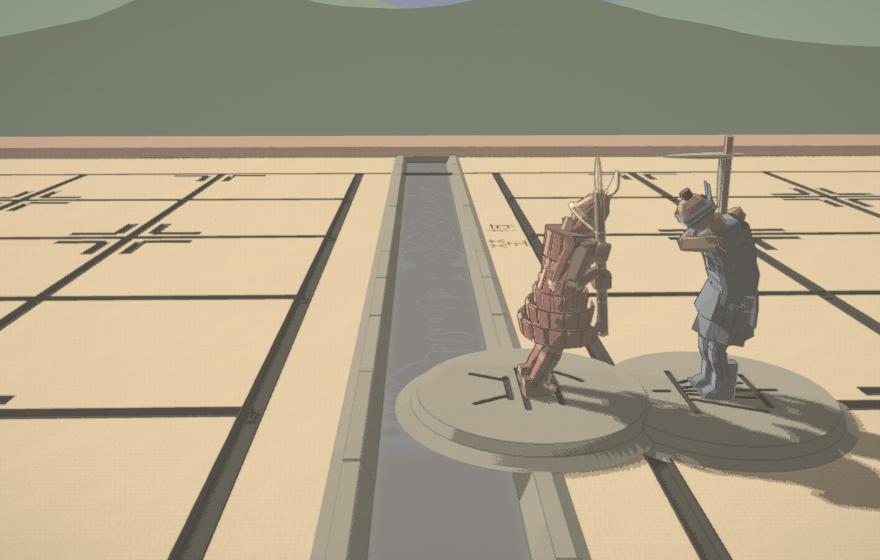
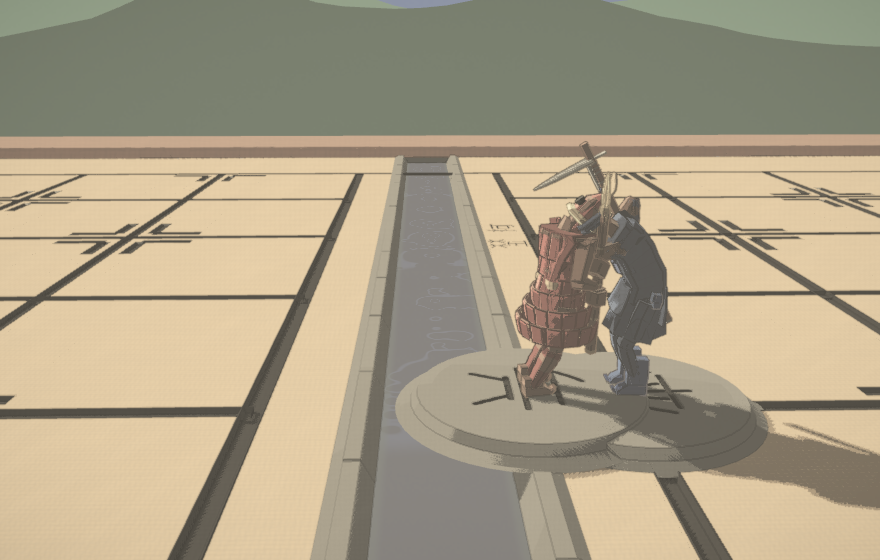
The capture connects: measured strike reach, no squat, no hand-over snap
Three defects from the round-two motion critique, each measured in the browser
before and after.

CONTACT. The approach fraction is no longer a constant. Animator.strikeReach
measures, once per figure at construction, where that figure's blow ACTUALLY
lands: the attackStrike clip is sampled at exactly the contact offset, written
onto the rig, and the far end of the weapon and both fists are read in the root's
own frame. A 兵 gets 176mm, a 士 234mm, an 象 rider's goad 593mm, and a 將 —
whose blade has already swept past by the contact frame — correctly falls back to
its fist at 174mm. The attacker then stops at reach plus the defender's torso
radius minus a 50mm bite, which comes out as a different fraction of the gap for
every unit (1.0 for a 兵, 2.83 for an 象). That is the brief's "attacks come from
each unit's historical identity" expressed as geometry rather than as a shared
number.

Spear tip to chest along the attack line: 0.403 -> 0.074. The point is now 50mm
INSIDE the defender's torso cylinder at throat height, and the two silhouettes
overlap. All six melee attackers land something inside the defender on the
contact frame — the weapon for a footman, the animal for a rider.

THE SQUAT. tick() translated the root until 1.28s while attackWindup had been
playing since 0.43s, and outside `move` both feet lock at weight 1, so the hip
solve bought the missing reach by dropping the pelvis. The approach is now a walk
[…]

Changed region(s): [[0.583, 0.2429, 1.0, 0.85], [0.9205, 0.8804, 0.9818, 0.9107]]

diff --git a/src/anim/timing.ts b/src/anim/timing.ts
@@ -180,14 +180,60 @@ export interface GaitPlan {
   bob: number;
 }
 
+/**
+ * ## Why these cycles are short
+ *
+ * A cycle time is not a free parameter either, but it is the *only* one left
+ * once the stride is fixed — and the stride is fixed by geometry, not by taste.
+ * Measured on the shipped 兵, walking one square through the choreographer:
+ *
+ * | stride ÷ leg | stride | pelvis bob | toe slide | one square |
+ * |---|---|---|---|---|
+ * | 1.32 (shipped) | 0.308 | **12.3 mm** | 0 | 3.90 s at 1.03 s/cycle |
+ * | 1.60 | 0.373 | 25.9 mm | 0 | 3.22 s |
+ * | 1.80 | 0.419 | 40.3 mm | 0 | 2.87 s |
+ * | 2.00 | 0.466 | 66.1 mm | 0 | 2.58 s |
+ * | 2.20 | 0.512 | 74.0 mm | **1.4 mm/frame — the lock breaks** | 2.35 s |
+ *
+ * The bob is the pelvis dropping to keep a planted foot inside the leg's reach:
+ * `L − √(L² − (ahead·stride)²)`, which is quadratic in the stride and inversely
+ * proportional to the leg. This cast's legs are 43% of stature, so every 20% of
+ * extra stride roughly doubles the bob — and a 5.9%-of-stature bob is exactly
+ * the duck-walk the motion critic named. `plantAhead` is already at the optimum
+ * split (half of duty, less the credit heel-off buys back); raising `heelRise`
+ * past ~40° buys a little more but puts the figure on pointe. **The stride
+ * cannot grow.**
+ *
+ * The cadence can, and it is free: the gait phase comes from the ground
+ * covered, so retiming a cycle changes the speed and *nothing else*. Measured
+ * across the same walk, stride held at 1.32:
+ *
+ * | cycle | steps/min | statures/s | bob | one square |
+ * |---|---|---|---|---|
+ * | 1.03 | 116 | 0.55 | 12.3 mm | 3.90 s |
+ * | 0.80 | 150 | 0.71 | 11.6 mm | 3.03 s |
+ * | 0.68 | 176 | 0.83 | 11.7 mm | 2.60 s |
+ * | 0.60 | 200 | 0.95 | 11.5 mm | 2.28 s |
+ *
+ * So the cadences below are a short-legged figure's, not a 1.8 m infantryman's.
+ * A cadence scales as √(leg length): this rig's leg is a quarter of a metre at
+ * face value, and 116 steps a minute is the rhythm of a man three times its
+ * size. At 176 the 兵 covers 0.83 statures a second — a real walking speed for
+ * its own body — while still taking the 6.5 steps its short legs need to cross
+ * a square. That last number is the one that cannot be fixed here: **one square
+ * is 1.85 times the 兵's height**, and no honest walk crosses 1.85 statures in
+ * the 1.0–1.4 s a fast game wants. That is the figure-to-square scale, and it
+ * lives in `characters/proportions.ts`.
+ */
 export const GAIT: Record<GaitName, GaitPlan> = {
   /**
    * Infantry march. Duty 0.62 gives two 12% double-support windows per cycle.
-   * 1.03 s per cycle is 116 steps a minute, which is a real quick-march cadence.
+   * 0.68 s per cycle is 176 steps a minute — the double-time rhythm, and the
+   * cadence a figure with a 0.23-unit leg actually keeps.
    */
   march: {
     name: 'march',
-    cycle: 1.03,
+    cycle: 0.68,
     strideOverLeg: 1.32,
     duty: 0.62,
     contactL: 0.5,
@@ -199,10 +245,15 @@ export const GAIT: Record<GaitName, GaitPlan> = {
   /**
    * The robed walk. Longer double support, shorter steps, and a bob small
    * enough that the hem does not pump — the brief's "almost no vertical bob".
+   *
+   * 0.70 s rather than a statelier number because the 仕 moves *diagonally*:
+   * its square is 1.414 units, and at anything slower its move runs past
+   * `maxSeconds` and gets compressed anyway. Short steps at a brisk rate under
+   * a robe read as a glide; the hem hides the feet and only the speed shows.
    */
   stride: {
     name: 'stride',
-    cycle: 1.19,
+    cycle: 0.70,
     strideOverLeg: 1.10,
     duty: 0.66,
     contactL: 0.5,
@@ -211,10 +262,16 @@ export const GAIT: Record<GaitName, GaitPlan> = {
     seated: false,
     bob: 0.0058,
   },
-  /** The rider's clock. The horse's three beats live in `CANTER` below. */
+  /**
+   * The rider's clock. The horse's three beats live in `CANTER` below.
+   *
+   * 0.62 s is 97 strides a minute, which is a real canter — the old 0.83 was a
+   * lope no horse carrying a rider into contact would use, and it made the 馬
+   * the slowest thing on the board despite having the longest stride.
+   */
   canter: {
     name: 'canter',
-    cycle: 0.83,
+    cycle: 0.62,
     strideOverLeg: 2.42,
     duty: 1.0,
     contactL: 0.0,
@@ -223,10 +280,17 @@ export const GAIT: Record<GaitName, GaitPlan> = {
     seated: true,
     bob: 0.026,
   },
-  /** The elephant's four-beat lateral walk, seen from the mahout's seat. */
+  /**
+   * The elephant's four-beat lateral walk, seen from the mahout's seat.
+   *
+   * 1.0 s per cycle: a real elephant's stride frequency at a purposeful walk,
+   * and the number that just keeps the 象's two-square diagonal (2.83 units)
+   * inside `maxSeconds` without compression. At the authored 2.13 it took 8.4 s
+   * and was clamped to less than half of that, which is the worst of both.
+   */
   lumber: {
     name: 'lumber',
-    cycle: 2.13,
+    cycle: 1.00,
     strideOverLeg: 2.05,
     duty: 1.0,
     contactL: 0.0,
@@ -235,10 +299,14 @@ export const GAIT: Record<GaitName, GaitPlan> = {
     seated: true,
     bob: 0.019,
   },
-  /** The charioteer's clock. Wheel phase comes from travel, never from here. */
+  /**
+   * The charioteer's clock. Wheel phase comes from travel, never from here.
+   * 0.95 s is one wheel revolution a second — 2.07 units per second, which is
+   * the fastest thing on the board, as it should be.
+   */
   roll: {
     name: 'roll',
-    cycle: 1.31,
+    cycle: 0.95,
     strideOverLeg: 1.0,
     duty: 1.0,
     contactL: 0.0,
@@ -250,10 +318,18 @@ export const GAIT: Record<GaitName, GaitPlan> = {
   /**
    * The artillery crew's shuffle. Duty 0.73 — three-quarters of the cycle with
    * both feet down is what makes a shuffle a shuffle rather than a walk.
+   *
+   * 0.62 s of it: very short steps taken very quickly, which is exactly what
+   * men dragging a machine on ropes do, and the only way a 0.21-unit stride
+   * covers a square in a playable time. The 砲 is still the slowest unit on the
+   * board — 3.4 s for a square against the 兵's 2.6 — and a long haul along a
+   * file is still compressed by `maxSeconds`. Lengthening its stride instead
+   * was measured and rejected: at 1.0 leg lengths the crew's ankle picks up
+   * 0.14 mm of slide a frame, and an exact lock is worth more than a second.
    */
   crew: {
     name: 'crew',
-    cycle: 1.47,
+    cycle: 0.62,
     strideOverLeg: 0.76,
     duty: 0.73,
     contactL: 0.5,

diff --git a/src/anim/controller.ts b/src/anim/controller.ts
@@ -829,9 +829,31 @@ export class Animator implements UnitAnimator {
       prev.stop();
     }
 
-    // Entering `move` from rest starts on the phase we already hold, so a unit
-    // that stops and starts does not teleport its feet.
-    if (state === 'move') next.time = this.gaitPhase * clip.duration;
+    // Entering `move` from rest starts at the top of a step, not wherever the
+    // phase happened to stop.
+    //
+    // A standing figure has both feet under its hips; a walking one has them
+    // `duty × stride` apart. Whatever phase a walk resumes on, the standing
+    // foot it inherits is that much further forward than that phase expects,
+    // and it holds its plant until the phase says to let go — so the leg ends
+    // the first stance over-extended by the difference and the hip solve takes
+    // the pelvis down to reach it. Measured on the 兵: 30 mm of pelvis, once
+    // per move, at the start, which is two and a half times the bob of the walk
+    // it introduces.
+    //
+    // Starting the cycle at the instant the *other* foot leaves the ground is
+    // the shortest first stance available without putting a foot in mid-swing
+    // on the frame the state changes — which would be a real pop rather than a
+    // dip. It halves the excess. The rest of it is the honest thing a body does
+    // when it starts walking from standing, and taking it out entirely needs a
+    // start-up step that is shorter than a stride, which is a change to the
+    // contact geometry rather than to a phase.
+    if (state === 'move') {
+      if (this.state !== 'move' && !this.plan.seated) {
+        this.gaitPhase = wrap01(this.plan.contactL + this.plan.duty);
+      }
+      next.time = this.gaitPhase * clip.duration;
+    }
     if (this.state === 'move' && state !== 'move' && !this.plan.seated) this.beginClosingStep();
     if (state === 'death') this.releaseFeet();
 

diff --git a/src/anim/choreography.ts b/src/anim/choreography.ts
@@ -1235,6 +1235,16 @@ export class Choreography implements Choreographer {
     // corrections, foot locks and damped followers are all functions of history.
     atk?.reset();
     def?.reset();
+    // Nor may it inherit a *position*. `reset()` clears the animators and the
+    // exchange rewrites the attacker's root from its first tick, but nothing
+    // rewrites the defender's until it is struck: a seek taken after one that
+    // ran past the knockback therefore started with the body already driven
+    // back and sinking, and the same `t` gave two different frames depending on
+    // what had been scrubbed before it. Both figures go back on their squares.
+    this.squareWorld(ctx.attackerSq, _a);
+    this.place(attacker, _a.x, _a.z);
+    this.squareWorld(ctx.defenderSq, _a);
+    this.place(defender, _a.x, _a.z);
     void this.capture(attacker, defender, ctx);
     const seq = this.running[this.running.length - 1];
     if (!seq) return;
